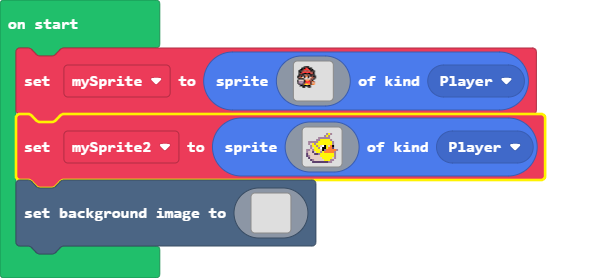
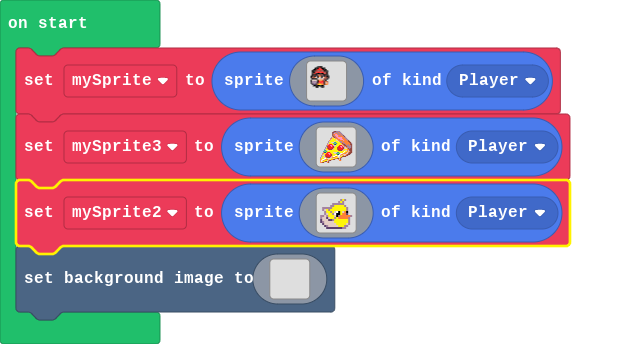
Update main.blocks, main.ts

diff --git a/main.ts b/main.ts
@@ -24,6 +24,40 @@ let mySprite = sprites.create(img`
     ........................
     ........................
     `, SpriteKind.Player)
+let mySprite3 = sprites.create(img`
+    .............beebbbb............
+    ............eebbbb4bb...........
+    ............eb344bb4bb..........
+    ............e44334bb4bb.........
+    ............eb433344b4be........
+    ............4eb43344444be.......
+    ...........bd4eb43333344bb......
+    ..........b455d4443333444bb.....
+    ..........4d5555d444333444bb....
+    .........4555555dd4b4443444be...
+    ........bd5555d555d4bb444444ee..
+    ........b55ddd665555bb4b44444ee.
+    .......bd5555677655554ebb44444eb
+    .......43222558855555d4eeb44b4ee
+    ......b422332ddd555222d4eebbb4be
+    ......be22232ed55522332db4ebbbbe
+    .....bde22222e555e22232edd4bbbbe
+    .....b52e222e3555e22222eddd4ebee
+    ....bd552eee355552e222e355544eee
+    ....665dd5555555552eee355dd4deee
+    ...6776555555555555555551554d4ee
+    ...4885222555dddd6655551544d4eee
+    ..b45522332555dd677611d444ddeee.
+    ..4d5222232e55555881d44ddd4eee..
+    .bdd5e22222e555115114d54d4ee....
+    .b55d2e222e351144d1d55eeee......
+    bd5ddd2eee3d444555dd4e..........
+    b555115dddd55d544eede...........
+    4511d444d5544ee...4de...........
+    41d4555d4ee........44...........
+    41554eede.......................
+    44ee...4e.......................
+    `, SpriteKind.Player)
 let mySprite2 = sprites.create(img`
     . . . . . . . . . . . . . . . . 
     . . . . . . . . . . b 5 b . . . 
